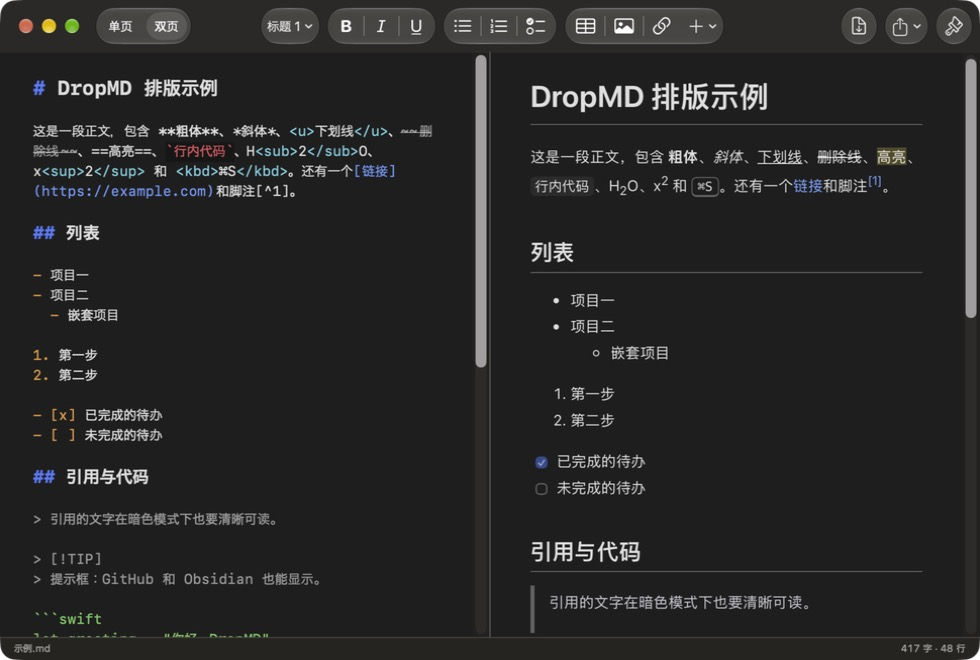
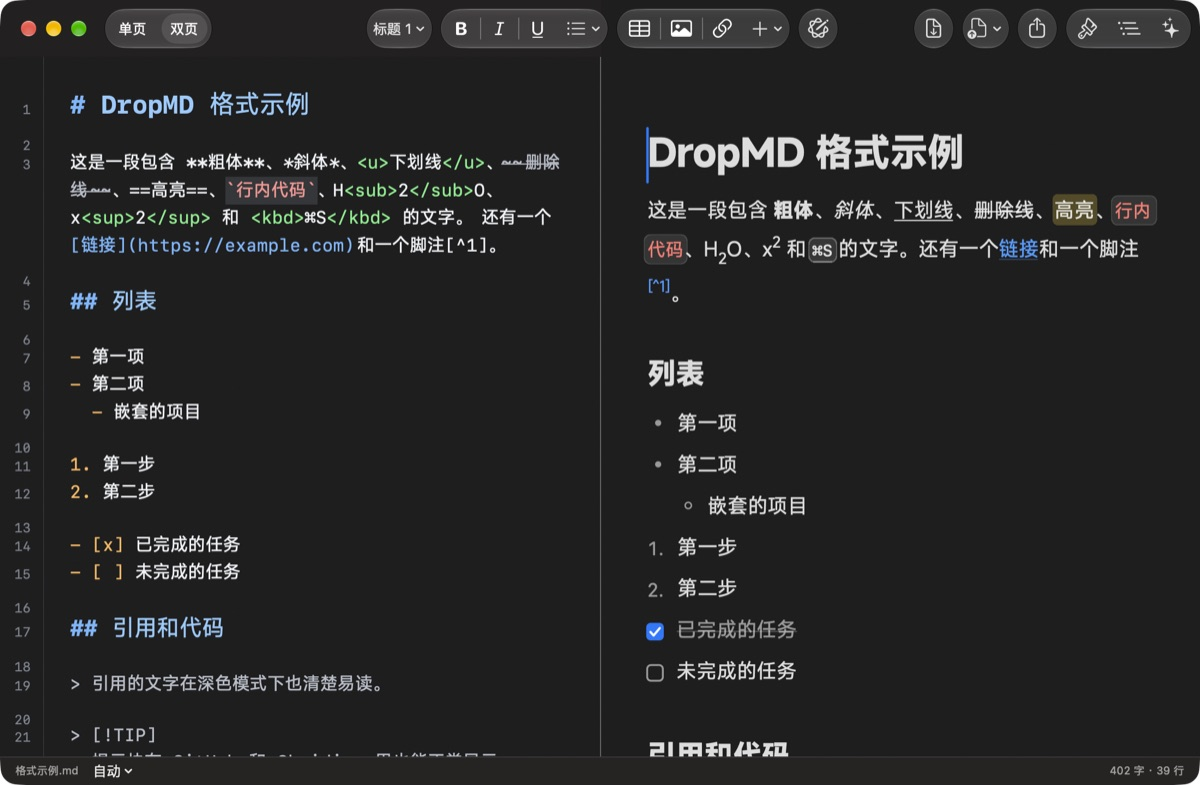
README 更新截图与动图，加上 Apple 智能介绍
- 中、英、日三套截图与演示动图换成 1.1 界面，新增 Apple 智能面板截图
- 中文、英文 README 加上 Apple 智能一节，隐私说明改为默认“自动”

diff --git a/README.md b/README.md
@@ -18,7 +18,7 @@ It also converts Word, Excel, PowerPoint, PDF and other files to Markdown, all o
 
 <br>
 
-<img src="docs/images/demo.en.gif" alt="Demo: formatting as you type in Page view, source and preview side by side in Split view, and converting a Word file by dragging it in" width="100%">
+<img src="docs/images/demo.en.gif" alt="Demo: typing and formatting in Page view, switching to Split view to see the source, then opening Apple Intelligence for a summary" width="100%">
 
 </div>
 
@@ -41,6 +41,17 @@ It also converts Word, Excel, PowerPoint, PDF and other files to Markdown, all o
 - **Export and share**: PDF, Word and HTML, or send the file via AirDrop or Mail with the Share button
 - **Auto save & version history**: changes are saved automatically; choose **File → Version History → Browse All Versions…** to open a Time Machine-style viewer to compare and restore any earlier version
 - **Software updates**: check for new versions in the app; downloads are checked for integrity, then click Restart to finish
+
+### 🆕 Apple Intelligence
+
+<p align="center"><img src="docs/images/ai-inspector.en.jpg" alt="The Apple Intelligence pane on the right: a summary and questions about the document" width="80%"></p>
+
+On Macs that support Apple Intelligence (macOS 26 or later), click ✨ at the top right of the toolbar to open the side pane:
+
+- **Summary**: sums up the whole document (or the selected text) in a few bullet points
+- **Ask about this document**: ask things like “What is still left to do?” and get answers based on the document
+- **Writing tools**: translate the whole document while keeping its formatting, turn text into a table, pull out a task list, or generate front matter (YAML)
+- **On-device or private cloud**: the default is Automatic — short documents stay on this Mac, and long ones can use Apple Private Cloud Compute. You can switch to On-Device Only in Settings
 
 ## 📦 Install
 
@@ -118,7 +129,7 @@ High Accuracy mode can now use [Xiaomi-OCR-0](https://github.com/xiaomi-research
 ## 🔒 Privacy
 
 - File conversion runs on this Mac without uploading or modifying the source files. DropMD has no analytics or ads.
-- DropMD’s document AI features default to **On-Device Only**. On supported Macs, choosing **Automatic** or **Prefer Private Cloud** in Settings → General → Apple Intelligence can send relevant document text to Apple Private Cloud Compute. If the cloud model is unavailable, DropMD falls back to the on-device model. System features such as Writing Tools are managed separately by macOS.
+- DropMD’s document AI features default to **Automatic**: on supported Macs, relevant text from long documents may be sent to Apple Private Cloud Compute, and DropMD falls back to the on-device model when the cloud model is unavailable. You can switch to **On-Device Only** in Settings → General → Apple Intelligence. System features such as Writing Tools are managed separately by macOS.
 - DropMD asks for your consent to download the High Accuracy recognition models or check for updates online.
 
 ## 🛠 Build from source

diff --git a/README.zh-CN.md b/README.zh-CN.md
@@ -18,7 +18,7 @@
 
 <br>
 
-<img src="docs/images/demo.gif" alt="演示：单页输入时自动变格式，双页显示原文与预览，拖入 Word 一键转换" width="100%">
+<img src="docs/images/demo.gif" alt="演示：在单页里输入并设置格式，切换到双页对照原文，再打开 Apple 智能查看文章摘要" width="100%">
 
 <br>
 
@@ -46,6 +46,17 @@
 - **导出和分享**：PDF、Word、HTML，或用“分享”按钮通过隔空投送、邮件发送
 - **自动保存与历史版本**：编辑过程自动保存，随时通过「文件 → 历史版本 → 查看所有历史版本…」打开时间机器式的对比界面，翻阅并一键恢复任意历史版本
 - **软件更新**：在 App 里检查新版本，下载后校验完整性，点“重新启动”即完成
+
+### 🆕 Apple 智能
+
+<p align="center"><img src="docs/images/ai-inspector.jpg" alt="右侧的 Apple 智能面板：文章摘要和针对本文的问答" width="80%"></p>
+
+在支持 Apple 智能的 Mac 上（macOS 26 及以上），点工具栏右上角的 ✨ 打开右侧面板：
+
+- **文章摘要**：自动把整篇文档（或选中的段落）归纳成几条要点
+- **针对本文提问**：直接问“还有哪些事没做完？”“预算一共多少？”，按文档内容回答
+- **写作小工具**：保留格式翻译整篇文档、把文字整理成表格、提取待办清单、生成文档开头的属性（YAML）
+- **本机与私有云**：默认“自动”，短文档在本机处理，长文档可用 Apple 私有云计算；也可以在设置里改成“仅本机”
 
 ## 📦 安装
 
@@ -125,7 +136,7 @@ xattr -dr com.apple.quarantine /Applications/DropMD.app
 ## 🔒 隐私
 
 - 文件转换全程在这台 Mac 上完成，不上传或修改源文件。没有统计或广告。
-- DropMD 的文档智能功能默认**仅本机**。在支持的 Mac 上，如果在「设置 → 通用 → Apple Intelligence」中选择**自动**或**优先私有云**，相关文档文字可能发送给 Apple 私有云计算；云端不可用时会改用本机模型。系统写作工具等功能由 macOS 单独管理。
+- DropMD 的文档智能功能默认为**自动**：在支持的 Mac 上，处理长文档时相关文字可能发送给 Apple 私有云计算；云端不可用时会改用本机模型。可以在「设置 → 通用 → Apple Intelligence」中改为**仅本机**。系统写作工具等功能由 macOS 单独管理。
 - 经你同意后，可联网下载高精度模式的识别模型或检查更新。
 
 ## 🛠 从源码构建
